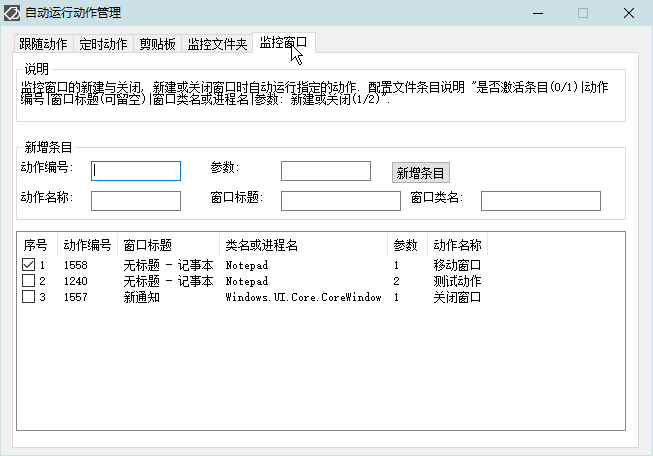
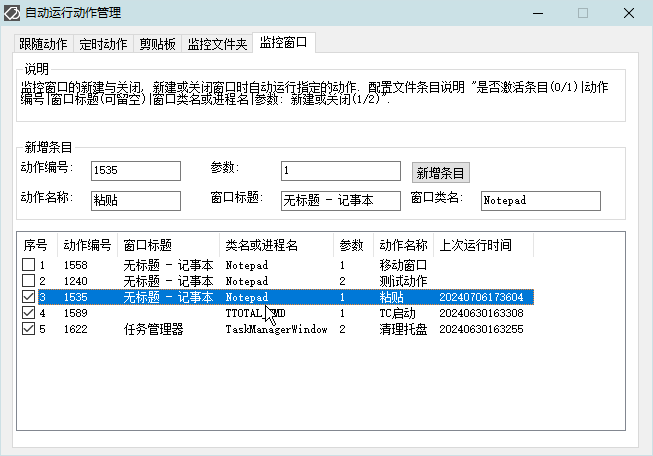
如意文档 2.7.0.3

diff --git a/RuYi-Ahk/history.md b/RuYi-Ahk/history.md
@@ -11,23 +11,39 @@ description: 如意百宝箱-Ahk 更新历史
 下面列出了如意百宝箱发布以来的变更和新增内容.  
 
 ### <span id="2.6">2.7 - 2024/06/16</span>
-1. 新增 如意内置函数 InvokeVerb 执行资源管理器右键菜单的直接执行(Shell动词 如复制, 剪切, 删除, 属性等)  
-2. 新增 动作管理界面 列表项目右键菜单 发送无条件的动作快捷方式到桌面  
-3. 新增 动作热键支持单键的双击和长按参数(如 &#96;&#124;&#124;&#124;长按 或 &#96;&#124;&#124;&#124;双击)  
-4. 新增 ATA 内置动作  
+1. 新增 动作管理界面 列表项目右键菜单 发送无条件的动作快捷方式到桌面  
+2. 新增 动作热键支持单键的双击和长按参数(如 &#96;&#124;&#124;&#124;长按 或 &#96;&#124;&#124;&#124;双击)  
+3. 修改 自动运行动作管理界面, 使所有的自动运行动作管理使用同样的逻辑和管理界面, 新版的定时动作配置使用新版的结构样式  
+4. 新增 如意内置函数和标签  
+.01 内置函数 InvokeVerb 执行资源管理器右键菜单的直接执行(Shell动词 如复制, 剪切, 删除, 属性等)  
+.02 内置函数 TrayIcon_Clean 自动清理托盘残留的图标  
+.03 内置标签 窗口上半屏幕  
+.04 内置标签 窗口下半屏幕  
+.05 内置标签 窗口左上角屏幕  
+.06 内置标签 窗口右上角屏幕  
+.07 内置标签 窗口左下角屏幕  
+.08 内置标签 窗口右下角屏幕  
+.09 内置标签 ABPSetPic 设置额外任务栏顶部文本区域的图标
+5. 新增 ATA 内置动作  
 .01 额外任务栏文本区 显示网速  
 .02 额外任务栏文本区 CPU占用  
-5. 新增 外部脚本动作  
+6. 新增 外部脚本动作  
 .01 弹幕单词.ahk  
 .02 简单的桌面便签.ahk  
 .03 系统和硬件信息.ahk  
 .04 在服务窗口进行搜索.ahk  查找关键字并定位到相应条目  
 .05 添加单词到一键替换文件.ahk  
 .06 ET_设置高亮线.ahk  
-6. 修改 外部脚本动作  
+.07 合并的文本文件拆分到桌面.ahk  
+.08 AudioVisualizer.ahk  
+.09 新建菜单.ahk  
+.10 文本转语音.ahk  使用引用程序中的外部程序 tts.exe 将选中文本转为语音(需联网, Win8+, tts.exe 使用第三方程序(可能会失效))  
+.11 小键盘鼠标.ahk  
+.12 查看字符编码2.ahk  
+7. 修改 外部脚本动作  
 .01 管理文本文件编码.ahk 新增 全选,反选,勾选CP936 按钮  
 .02 Ini_收藏夹界面.ahk 新增右键菜单删除按钮  
-.03 多文件合并.ahk 支持拖拽文件到窗口  
+.03 多文件合并.ahk ①支持拖拽文件到窗口 ②新增选项 添加拆分信息到合并文件(能自动拆分) 
 
 ### <span id="2.6">2.6 - 2024/05/19</span>
 1. 新增 [网络控制](./webaction.md)网址附加动作编号直接执行动作, 例 http://127.0.0.1:5151/1001 执行动作 1001  

diff --git a/RuYi-Ahk/actionlist.md b/RuYi-Ahk/actionlist.md
@@ -626,3 +626,19 @@ description: 如意百宝箱-Ahk 内置动作列表
 |1619|f22c|网络和共享|无条件|网络和共享中心|run&#124;control /name Microsoft.NetworkAndSharingCenter|
 |1620|f22c|网络和共享|无条件|网络和共享中心|run&#124;shell:::{8E908FC9-BECC-40F6-915B-F4CA0E70D03D}|
 |1621|e1c6|添加到替换|选中文本|将选中文本添加到一键替换配置文件|run&#124;"%B_Autohotkey%" "%A_ScriptDir%\外部脚本\文本处理\添加单词到一键替换文件.ahk" "%CandySel%"|
+|1622|e70a|清理托盘|无条件|清理强制结束进程后残留的系统托盘图标|canfunc&#124;TrayIcon_Clean|
+|1623|e7c4|文件拆分|无条件|将动作1548合并的文本文件拆分到桌面|run&#124;"%B_Autohotkey%" "%A_ScriptDir%\外部脚本\文件处理\合并的文本文件拆分到桌面.ahk" "%CandySel%"|
+|1624|f13f|更改图标|指定参数|更改额外任务栏最上面文本的图标|Cando&#124;ABPSetPic|
+|1625|f61f|可视化声音|无条件|当系统播放声音时,通过更改额外任务栏的图标可视化音量|run&#124;"%B_Autohotkey%" "%A_ScriptDir%\外部脚本\工具类\AudioVisualizer.ahk"|
+|1626|E70F|NotePad2打开|选中文件|使用 NotePad2 打开选定文件|openwith&#124;%Notepad2%|
+|1627|E70F|Hex打开|选中文件|使用 HexEditor 打开选定文件|openwith&#124;%A_ScriptDir%\引用程序\x32\MiTeC_Hexadecimal_Editor.exe|
+|1628|ed2a|新建菜单|无条件|显示资源管理器新建菜单|run&#124;"%B_Autohotkey%" "%A_ScriptDir%\外部脚本\文件处理\文件夹处理\新建菜单.ahk" "%Windy_CurWin_id%"|
+|1629|f0ee|文本转语音|选中文本|利用微软的语音API程序tts.exe实现文本转语音的功能(Win8+)|run&#124;"%B_Autohotkey%" "%A_ScriptDir%\外部脚本\文本处理\文本转语音.ahk" "%CandySel%"|
+|1630|f26e|小键盘鼠标|无条件|使用小键盘区域实现鼠标的移动,点击|run&#124;"%B_Autohotkey%" "%A_ScriptDir%\外部脚本\工具类\小键盘鼠标.ahk"|
+|1631|e8c1|查看编码|选中文本|查看选中文本的编码|run&#124;"%B_Autohotkey%" "%A_ScriptDir%\外部脚本\文本处理\查看字符编码2.ahk" "%CandySel%"|
+|1632|e110|上半屏幕|任意窗口|窗口移到上半屏幕|Cando&#124;窗口上半屏幕|
+|1633|e74b|下半屏幕|任意窗口|窗口移到下半屏幕|Cando&#124;窗口下半屏幕|
+|1634|e742|左上屏幕|任意窗口|窗口移到屏幕左上角(1/4)|Cando&#124;窗口左上角屏幕|
+|1635|e143|右上屏幕|任意窗口|窗口移到屏幕右上角(1/4)|Cando&#124;窗口右上角屏幕|
+|1636|e1d9|左下屏幕|任意窗口|窗口移到屏幕左下角(1/4)|Cando&#124;窗口左下角屏幕|
+|1637|e741|右下屏幕|任意窗口|窗口移到屏幕右下角(1/4)|Cando&#124;窗口右下角屏幕|

diff --git a/RuYi-Ahk/index.md b/RuYi-Ahk/index.md
@@ -12,7 +12,7 @@ description: 如意百宝箱-Ahk 简介
 
 **脚本下载**: [RuYi_2.6.zip](https://wyagd001.github.io/RuYi-Ahk/RuYi.zip)  
 
-**当前版本**: [2.7 - 2024/06/16](history.md)
+**当前版本**: [2.7 - 2024/07/06](history.md)
 
 **最新发布**: [https://github.com/wyagd001/RuYi-Ahk](https://github.com/wyagd001/RuYi-Ahk)  
 
@@ -89,7 +89,7 @@ description: 如意百宝箱-Ahk 简介
      -  .15 [\[2.6+\]](./history.md#2.6)语音唤醒, 对麦克风说出"如意如意"后(使用系统自带的语音识别), 按说出的名称执行动作
 
 #### <span id="script">外部脚本</span>
-  - 许多动作是由外部的 ahk 脚本来完成的, 它们统一放在 "外部脚本" 目录. 外部脚本在动作中最多支持 3 个命令行参数, 并且支持如意内置的[变量](./var.md). 现在内置的外部动作脚本有 257 个.  
+  - 许多动作是由外部的 ahk 脚本来完成的, 它们统一放在 "外部脚本" 目录. 外部脚本在动作中最多支持 3 个命令行参数, 并且支持如意内置的[变量](./var.md). 现在内置的外部动作脚本有 263 个.  
     [完整的外部脚本列表](scriptlist.md)  
     下面列出了一些内置的外部脚本动作, 第二列为外部动作脚本是否集成在 AnyToAhk.exe(ATA) 中.  
 

diff --git a/RuYi-Ahk/scriptlist.md b/RuYi-Ahk/scriptlist.md
@@ -305,3 +305,9 @@ description: 如意百宝箱-Ahk 内置外部脚本
 |1605|是|天气2|无条件|利用免费的天气api显示当天气温|天气2.ahk|
 |1612|否|高亮线|ET|ET_在当前选中的单元格下显示一条线|ET_设置高亮线.ahk|
 |1621|是|添加到替换|选中文本|将选中文本添加到一键替换配置文件|添加单词到一键替换文件.ahk|
+|1623|否|文件拆分|无条件|将动作1548合并的文本文件拆分到桌面|合并的文本文件拆分到桌面.ahk|
+|1625|否|可视化声音|无条件|当系统播放声音时,通过更改额外任务栏的图标可视化音量|AudioVisualizer.ahk|
+|1628|否|新建菜单|无条件|显示资源管理器新建菜单|新建菜单.ahk|
+|1629|否|文本转语音|选中文本|利用微软的语音API程序tts.exe实现文本转语音的功能(Win8+)|文本转语音.ahk|
+|1630|否|小键盘鼠标|无条件|使用小键盘区域实现鼠标的移动,点击|小键盘鼠标.ahk|
+|1631|否|查看编码|选中文本|查看选中文本的编码|查看字符编码2.ahk|

diff --git a/RuYi-Ahk/thanks.md b/RuYi-Ahk/thanks.md
@@ -16,3 +16,4 @@ description: 如意百宝箱-Ahk 感谢名单
 | L*n | 2023/4/13 | ----------- | ----------- | 机器码生成算法更改, 原注册码不再适用于后续版本 | 
 | z*Z | 2023/11/19 | 1CB4XXXXXXXXA67B | 1F2F5DC1B866C9BD |  | 
 | *英 | 2024/4/18 | E4B1XXXXXXXXB2BF | F93BD33A38949FA4 |  | 
+| G*W | 2024/7/6 |  70DCXXXXXXXX36F9 | CC280F28B4CEBC9F | |
